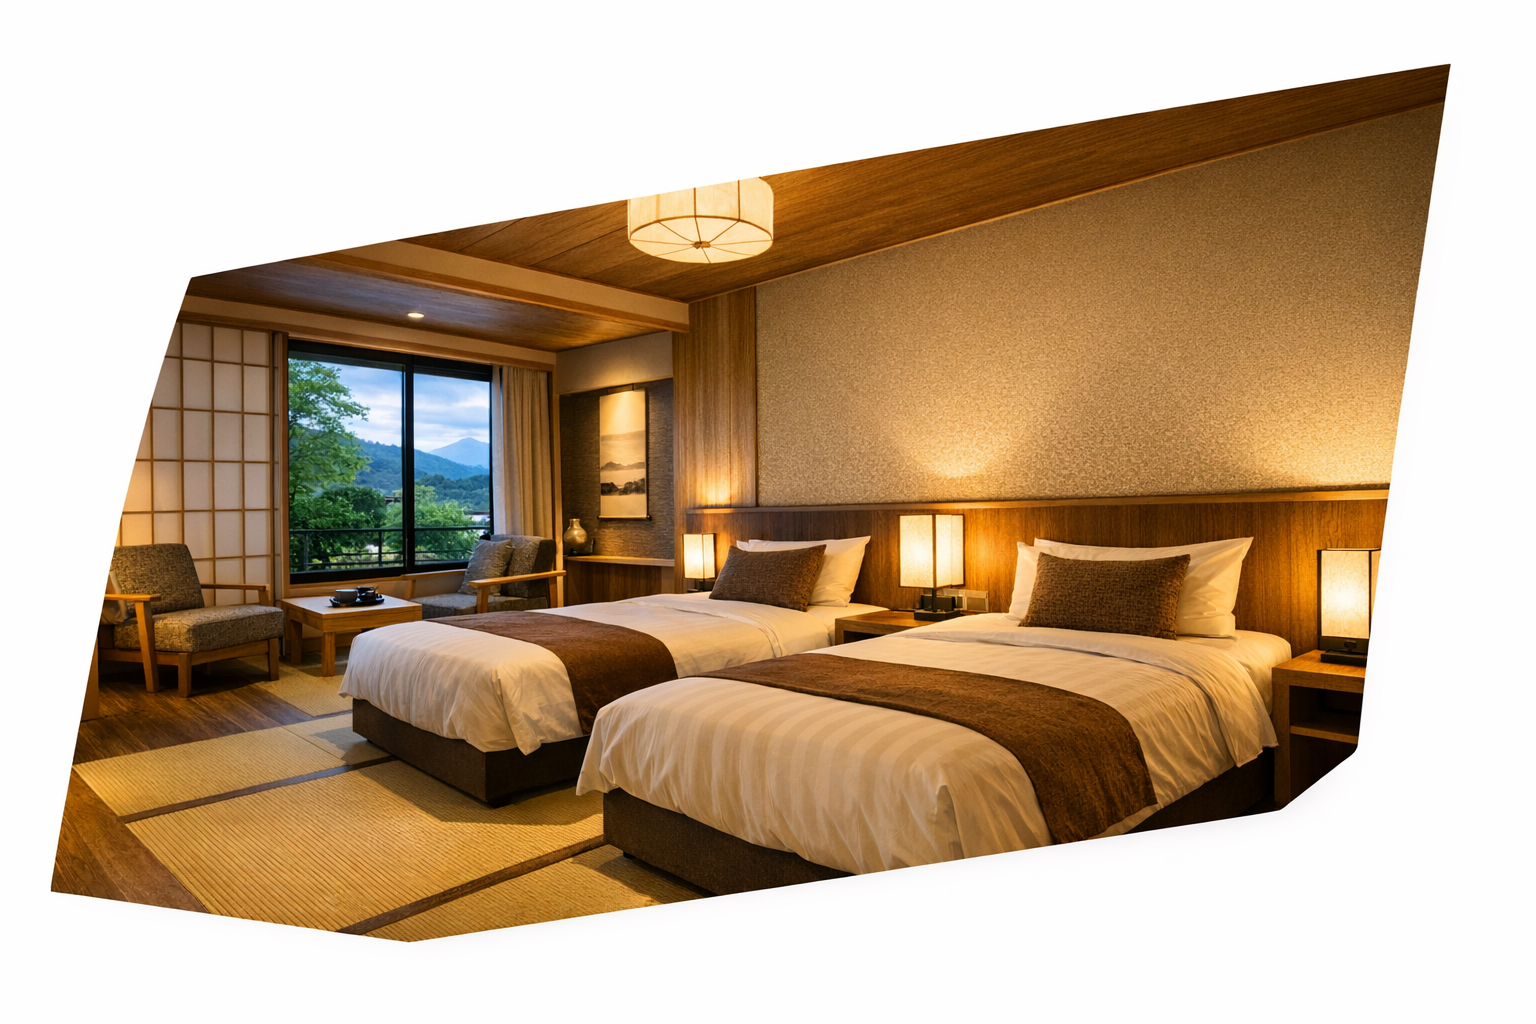
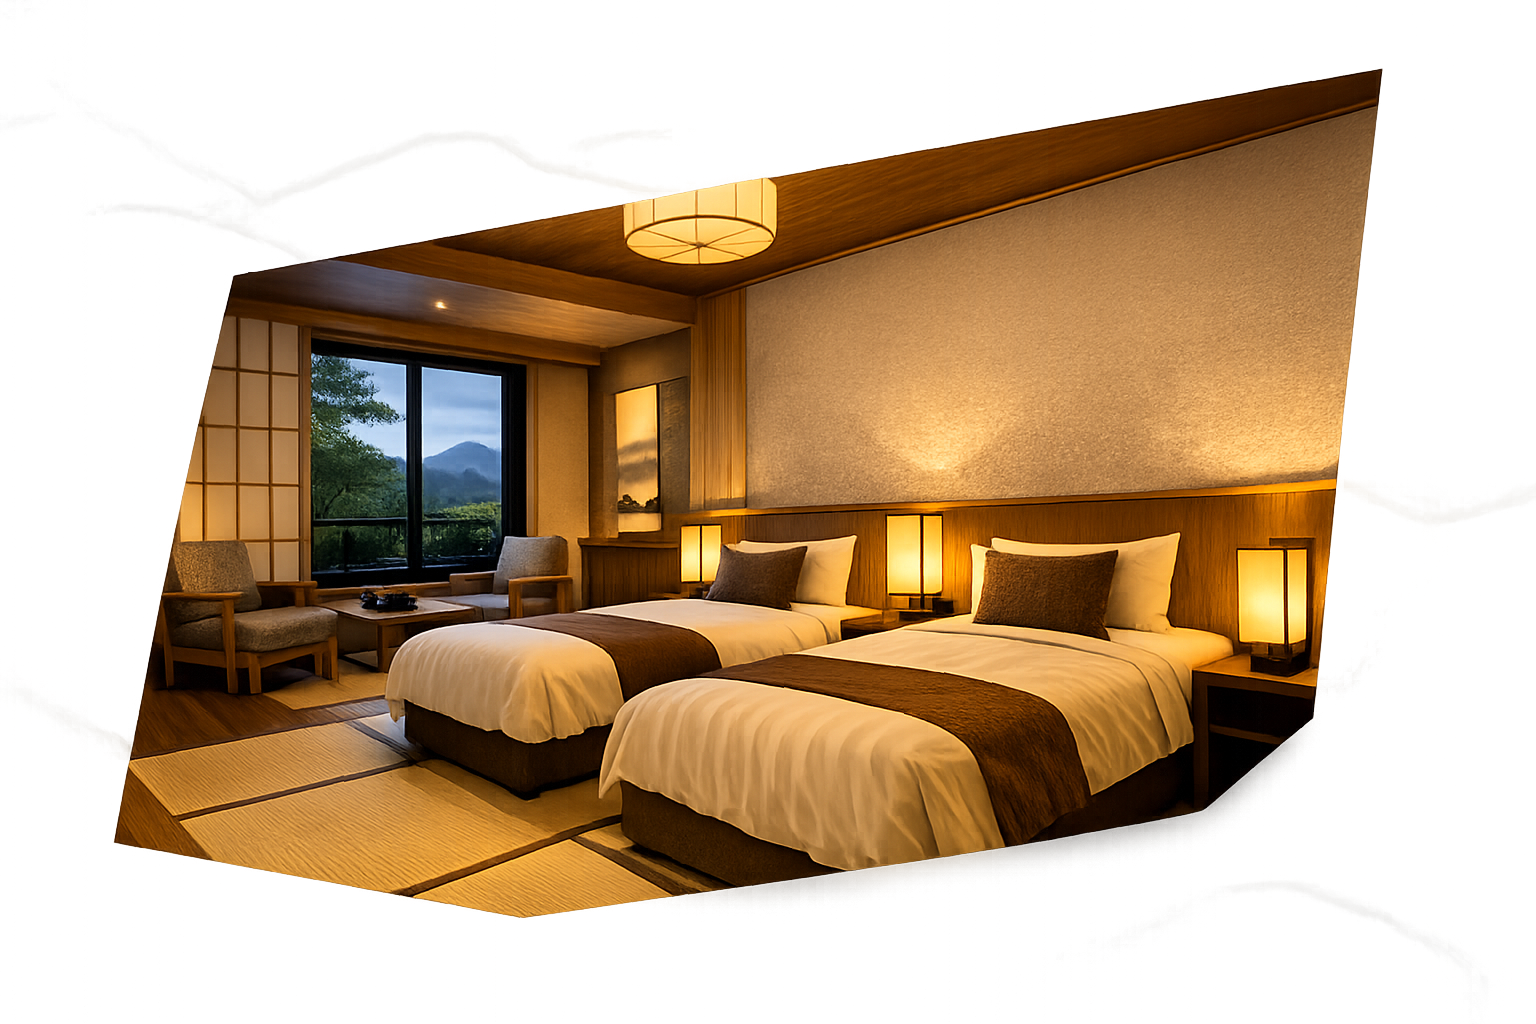
トップページほぼ完成か

diff --git a/assets/css/style.css b/assets/css/style.css
@@ -76,3 +76,28 @@
     width: 50%;
     height: auto;
 }
+
+.index_restaurant{
+    display:flex;
+    margin-left:50px;
+}
+
+.index_restaurant img{
+    width: 55%;
+    height: auto;
+}
+
+.index_ex {
+    background-image: url("/hotelmameya/assets/img/hotelmameya_index_background.webp");
+    background-repeat: repeat;
+    background-size: 400px 400px;
+    font-family: "Yu Mincho, 'Hiragino Mincho ProN', serif";
+}
+
+.index_ex section{
+    align-items: center;
+}
+
+.index_ex article{
+    text-align: center;
+}

diff --git a/views/index.php b/views/index.php
@@ -21,25 +21,29 @@
                 <img src="/hotelmameya/assets/img/hotelmameya_hero.png" alt="トップ画像">
             </div>
         </section>
-        <section class="index_room">
-            <img src="/hotelmameya/assets/img/hotelmameya_index_room.png" alt="トップ部屋画像">
-            <article>
-                <h2>～和風モダンの室内～</h2>
-                <p>木の香りに包まれた和モダンの空間で、心をほどくひとときを。
-                    高速Wi-Fiと動画配信サービスで、静かな夜も豊かな時間に。
-                    枕の種類も豊富に取り揃え、快眠をお手伝いします。</p>
-            </article>
-        </section>
-        <section class="index_restaurant">
-            <img src="/hotelmameya/assets/img/hotelmameya_index_restaurant.png" alt="トップレストラン画像">
-            <article class=index_room>
-                <h2>～</h2>
-                <p>木の香りと柔らかな灯りに包まれた、和モダンのレストラン。
-                    季節の食材を活かした豊富なメニューと、厳選されたドリンクを取り揃えています。
-                    食後には、あんみつや和菓子など、心をほぐす甘味もご用意。
-                    ゆったりとした時間の中で、和の味わいとおもてなしをお楽しみください。</p>
-            </article>
-        </section>
+        <div class="index_ex">
+            <section class="index_room">
+                <img src="/hotelmameya/assets/img/hotelmameya_index_room.png" alt="トップ部屋画像">
+                <article>
+                    <h2>～和風モダンの室内～</h2>
+                    <br>
+                    <p>木の香りに包まれた和モダンの空間で、心をほどくひとときを。<br>
+                        高速Wi-Fiと動画配信サービスで、静かな夜も豊かな時間に。<br>
+                        枕の種類も豊富に取り揃え、快眠をお手伝いします。</p>
+                </article>
+            </section>
+            <section class="index_restaurant">
+                <article>
+                    <h2>～色とりどりの味覚を堪能～</h2>
+                    <br>
+                    <p>木の香りと柔らかな灯りに包まれた、和モダンのレストラン。<br>
+                        季節の食材を活かした豊富なメニューと、厳選されたドリンクを取り揃えています。<br>
+                        食後には、あんみつや和菓子など、心をほぐす甘味もご用意。<br>
+                        ゆったりとした時間の中で、和の味わいとおもてなしをお楽しみください。</p>
+                </article>
+                <img src="/hotelmameya/assets/img/hotelmameya_index_restaurant.png" alt="トップレストラン画像">
+            </section>
+        </div>
         <footer>
 
         </footer>
